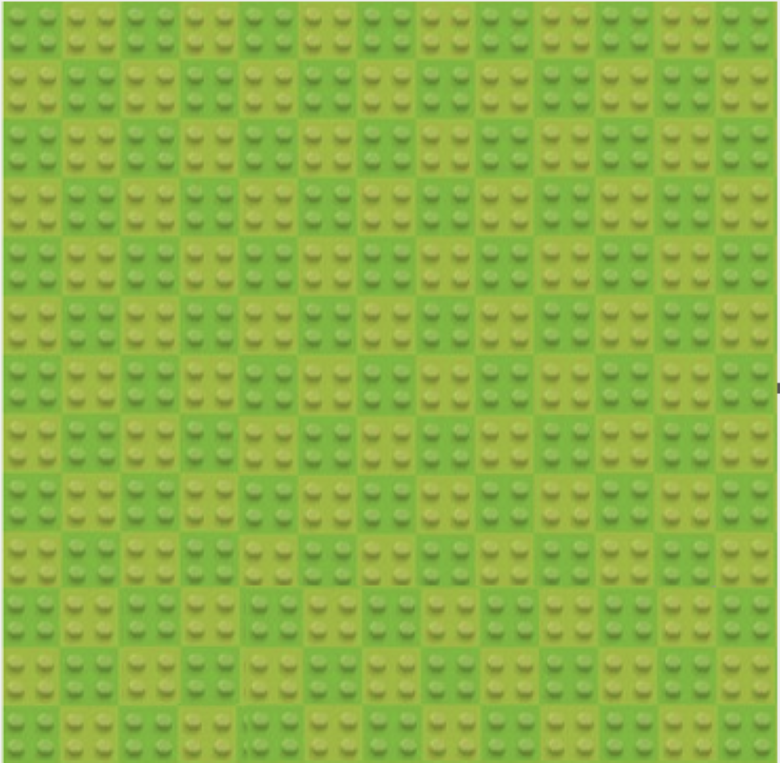
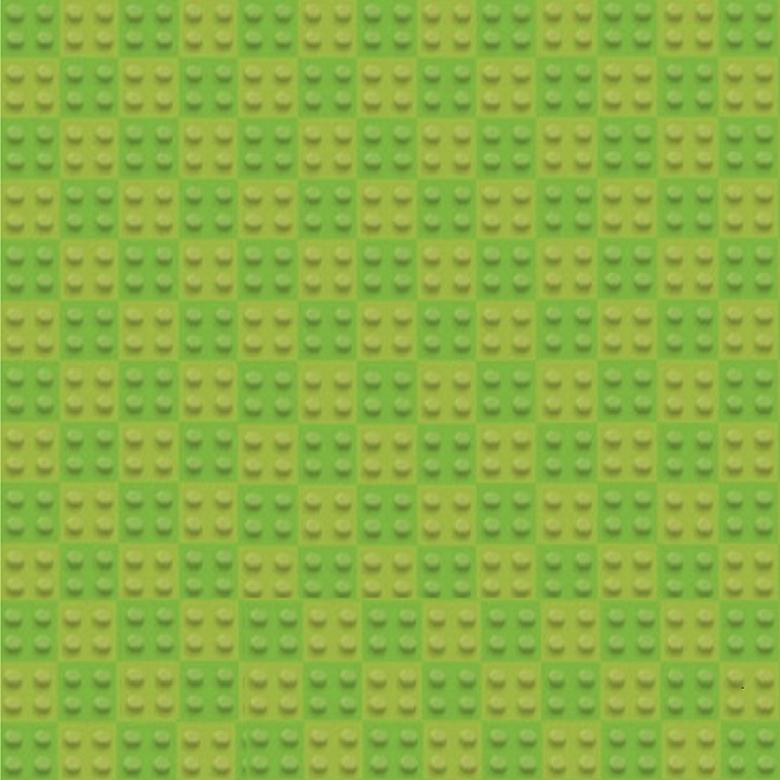
빌리지 배경 이미지 안맞는거 조정

diff --git a/CrazyArcade/src/Screen.java b/CrazyArcade/src/Screen.java
@@ -49,9 +49,9 @@ public class Screen extends Canvas implements KeyListener, ComponentListener {
 	private Image map_PatriotsBox3 = new ImageIcon("Resources/box3.png").getImage();
 	private Image map_VillageBackground = new ImageIcon("Resources/mapvillage.png").getImage();
 	private Image map_VillageBox1 = new ImageIcon("Resources/boxhome.png").getImage();//이거 아직은 안쓸듯
-	private Image map_VillageBox2 = new ImageIcon("Resources/boxtree.png").getImage();//이거 아직은 안쓸듯
+	private Image map_VillageBox2 = new ImageIcon("Resources/boxtree.png").getImage();
 	private Image map_VillageBox3 = new ImageIcon("Resources/boxvillage2.png").getImage();
-	private Image map_VillageBox4 = new ImageIcon("Resources/boxvillage3.png").getImage();
+	private Image map_VillageBox4 = new ImageIcon("Resources/boxvillage3.png").getImage();//이거 아직은 안쓸듯
 	//아이템 관련 이미지
 	private Image item_waterbomb = new ImageIcon("Resources/item_waterbombplus.png").getImage();
 	private Image item_speed = new ImageIcon("Resources/item_Speed.png").getImage();
@@ -224,7 +224,7 @@ public class Screen extends Canvas implements KeyListener, ComponentListener {
 							(BoomJudge.map_size[map_y][map_x] == 11) || (BoomJudge.map_size[map_y][map_x] == 14) ||
 							(BoomJudge.map_size[map_y][map_x] == 17) || (BoomJudge.map_size[map_y][map_x] == 20) ||
 							(BoomJudge.map_size[map_y][map_x] == 23) || (BoomJudge.map_size[map_y][map_x] == 26)) {
-						bufferGraphics.drawImage(map_VillageBox4, mapXlocationlist[map_x], mapYlocationlist[map_y],this);//맵 인덱스에 맞게 블록 이미지 생성
+						bufferGraphics.drawImage(map_VillageBox2, mapXlocationlist[map_x], mapYlocationlist[map_y],this);//맵 인덱스에 맞게 블록 이미지 생성
 					}
 					if(BoomJudge.map_size[map_y][map_x] == 9) {
 						bufferGraphics.drawImage(item_waterbomb, mapXlocationlist[map_x], mapYlocationlist[map_y],this);//물풍선 늘려주는 아이템 이미지 생성
